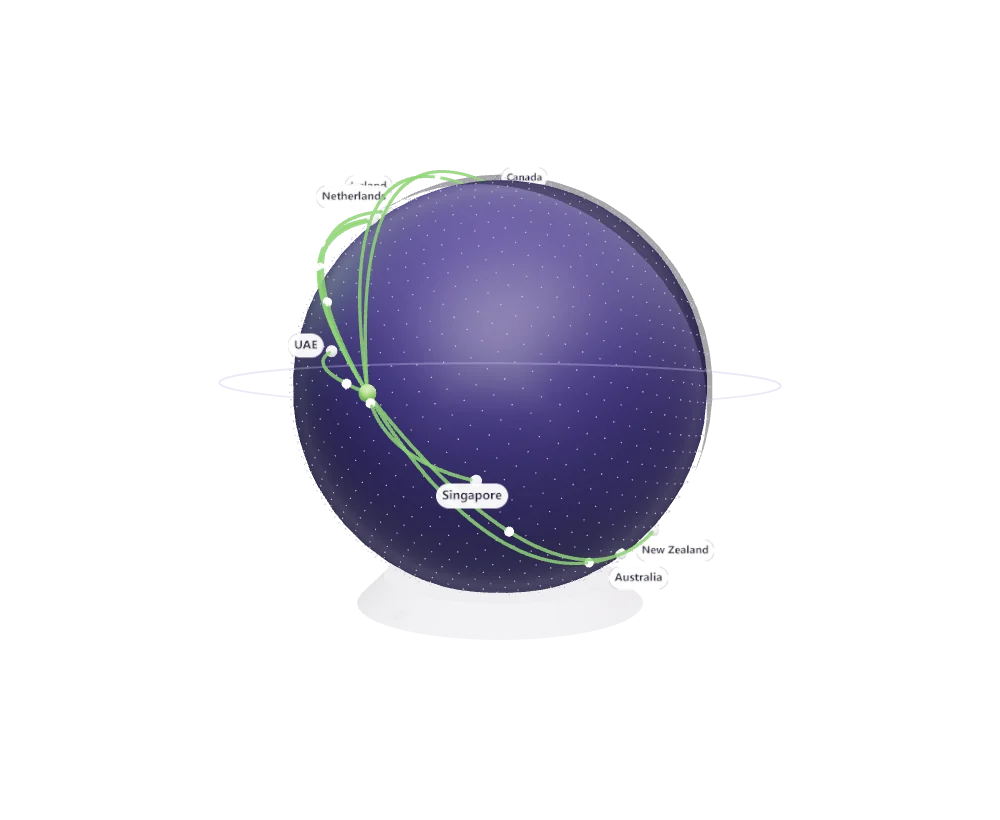
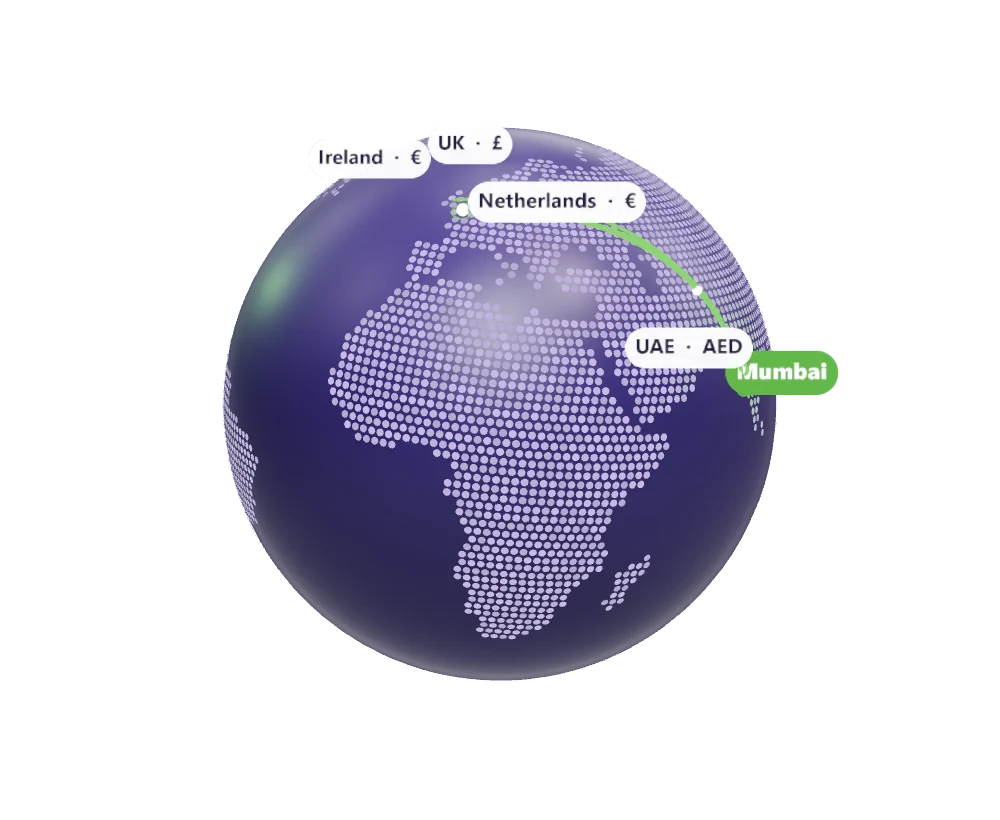
Clients-abroad globe redesigned: real continents in dots, rim of light, arcs that draw themselves
The old globe was a plain dotted ball on a stand with labels piling up. Now:
- Land drawn as an even dot grid from Natural Earth 1:110m (public domain), coastline only, no
  borders (build script in D:/U-Scale-SEO-Program/globe/land_dots.py, 3,826 dots, 20 KB).
- Glossy deep-violet sea, a camera-facing rim of light, Mumbai in green with a pulse and a soft green
  glow on the land around it.
- Arcs from Mumbai to the nine countries draw themselves one by one, with a light travelling each,
  and a pulse where they land. Labels carry the currency (UK · £, USA · $ ...) and show only while
  their side faces you; UK/Ireland/Netherlands and USA/Canada are nudged apart so they never overlap.
- No stand; the globe turns slowly (slower in calm mode). New poster and screen-reader text.

Changed region(s): [[0.217, 0.1524, 0.837, 0.8537]]

diff --git a/source/static/assets/3d/scenes/outsource-web-design-india.js b/source/static/assets/3d/scenes/outsource-web-design-india.js
@@ -1,39 +1,91 @@
-/* Clients abroad (hub): a dotted globe turning slowly, a night side, and glowing arcs from Mumbai to the nine countries,
-   with a packet of light travelling each arc. No country borders are drawn. */
+/* Clients abroad (hub): the world as dots of land (Natural Earth 1:110m coastline, public domain; no borders drawn),
+   a soft rim of light, and arcs drawing themselves from Mumbai to the nine countries, each with its currency.
+   The globe turns slowly; a country's label shows only while its side faces you, so labels never pile up. */
[1 lines of base64/hex data omitted]
 export default function (K, env) {
   const { T, C } = K;
   const root = K.group(); const intro = []; const faces = [];
-  const R = 2.3; const globe = K.group();
-  const N = 1800; const pts = new Float32Array(N * 3); const g = Math.PI * (3 - Math.sqrt(5));
-  for (let i = 0; i < N; i++) { const y = 1 - (i / (N - 1)) * 2; const r = Math.sqrt(1 - y * y); const a = g * i; pts.set([Math.cos(a) * r * R, y * R, Math.sin(a) * r * R], i * 3); }
-  const geo = new T.BufferGeometry(); geo.setAttribute('position', new T.BufferAttribute(pts, 3));
-  globe.add(new T.Points(geo, new T.PointsMaterial({ color: 0xc9bce8, size: 0.05, transparent: true, opacity: 0.9 })));
-  globe.add(new T.Mesh(new T.SphereGeometry(R * 0.985, 48, 32), K.clay(0x2e2558, { rough: 0.6 })));
-  const night = new T.Mesh(new T.SphereGeometry(R * 1.01, 48, 32, 0, Math.PI), new T.MeshBasicMaterial({ color: 0x0b0820, transparent: true, opacity: 0.35, depthWrite: false })); globe.add(night);
+  const R = 2.35; const Y = 2.45;
+  const tilt = K.group(); tilt.rotation.set(0.22, 0, -0.1); tilt.position.y = Y; root.add(tilt);
+  const globe = K.group(); tilt.add(globe);
   const ll = (lat, lon, r = R) => { const p = (90 - lat) * Math.PI / 180; const t = (lon + 180) * Math.PI / 180; return new T.Vector3(-r * Math.sin(p) * Math.cos(t), r * Math.cos(p), r * Math.sin(p) * Math.sin(t)); };
-  const home = ll(19.1, 72.9);
-  globe.add(K.place(K.ball(0.09, K.clay(C.green, { rough: 0.3 })), home.toArray()));
-  const places = [['UK', 51.5, -0.1], ['USA', 40.7, -74], ['Australia', -33.9, 151.2], ['Canada', 43.7, -79.4], ['Singapore', 1.35, 103.8], ['UAE', 25.2, 55.3], ['Ireland', 53.3, -6.3], ['New Zealand', -36.8, 174.8], ['Netherlands', 52.4, 4.9]];
-  const arcM = new T.MeshBasicMaterial({ color: C.lime, transparent: true, opacity: 0.85, toneMapped: false }); const packets = [];
-  places.forEach(([n, la, lo], i) => {
-    const b = ll(la, lo); const mid = home.clone().add(b).multiplyScalar(0.5); mid.setLength(R + 0.4 + home.distanceTo(b) * 0.28);
-    const curve = new T.QuadraticBezierCurve3(home, mid, b);
-    const arc = new T.Mesh(new T.TubeGeometry(curve, 48, 0.018, 6, false), arcM); globe.add(arc);
-    globe.add(K.place(K.ball(0.06, K.clay(C.white)), b.toArray()));
-    const lab = K.place(K.label(n, { px: 52, bg: 'rgba(255,255,255,0.95)', color: '#251E45', height: 0.24, weight: 700 }), b.clone().setLength(R + 0.32).toArray()); globe.add(lab); faces.push(lab);
-    const d = new T.Mesh(new T.SphereGeometry(0.05, 10, 8), new T.MeshBasicMaterial({ color: 0xffffff, toneMapped: false })); globe.add(d); packets.push({ d, curve, o: i * 0.11 });
+
+  /* the sea: a deep, slightly glossy ball */
+  globe.add(new T.Mesh(new T.SphereGeometry(R, 64, 48), K.clay(0x2b2255, { rough: 0.42, env: 0.55 })));
+
+  /* the land: one instanced dot per point, lying flat on the surface; a green glow around Mumbai */
+  const raw = Uint8Array.from(atob(LAND), (c) => c.charCodeAt(0)); const dv = new DataView(raw.buffer); const n = raw.length / 4;
+  const land = new T.InstancedMesh(new T.CircleGeometry(0.03, 10), new T.MeshBasicMaterial({ toneMapped: false }), n);
+  const home = ll(19.08, 72.88); const o = new T.Object3D(); const col = new T.Color(); const lav = new T.Color(0xc9bce8); const grn = new T.Color(0x8ed474);
+  let seed = 7; const rnd = () => { seed = (seed * 16807) % 2147483647; return seed / 2147483647; };
+  for (let i = 0; i < n; i++) {
+    const lat = dv.getInt16(i * 4, true) / 100; const lon = dv.getInt16(i * 4 + 2, true) / 100;
+    const p = ll(lat, lon, R * 1.003); o.position.copy(p); o.lookAt(p.clone().multiplyScalar(2)); o.updateMatrix(); land.setMatrixAt(i, o.matrix);
+    const near = Math.max(0, 1 - p.distanceTo(home) / 1.05);
+    col.copy(lav).lerp(grn, near * near).multiplyScalar(0.78 + 0.22 * rnd()); land.setColorAt(i, col);
+  }
+  globe.add(land);
+
+  /* Mumbai: green pin with a pulse */
+  const hn = home.clone().normalize();
+  const homeDot = K.ball(0.085, K.clay(C.green, { rough: 0.3 })); homeDot.position.copy(home.clone().multiplyScalar(1.01)); globe.add(homeDot);
+  const pulseM = new T.MeshBasicMaterial({ color: C.lime, transparent: true, opacity: 0.8, toneMapped: false, side: T.DoubleSide, depthWrite: false });
+  const pulse = new T.Mesh(new T.RingGeometry(0.1, 0.13, 40), pulseM); pulse.position.copy(home.clone().multiplyScalar(1.006)); pulse.lookAt(home.clone().multiplyScalar(2)); globe.add(pulse);
+  const homeLab = K.label('Mumbai', { px: 60, bg: '#63B849', color: '#ffffff', height: 0.34, weight: 800 }); homeLab.position.copy(hn.clone().multiplyScalar(R + 0.36)); homeLab.material.depthWrite = false; globe.add(homeLab); faces.push(homeLab);
+
+  /* nine countries: arc, end dot, label with currency; arcs draw themselves in turn */
+  const places = [['UK', 51.5, -0.13, '£', -0.05, 0.42], ['Ireland', 53.35, -6.26, '€', -0.62, 0.02], ['Netherlands', 52.37, 4.9, '€', 0.62, -0.08], ['UAE', 25.2, 55.27, 'AED', -0.2, 0],
+    ['Singapore', 1.35, 103.82, 'S$', 0.1, -0.12], ['Australia', -33.87, 151.21, 'A$', -0.25, -0.1], ['New Zealand', -36.85, 174.76, 'NZ$', 0.3, 0.1], ['USA', 40.71, -74.0, '$', 0.25, -0.28], ['Canada', 43.65, -79.38, 'C$', -0.2, 0.36]];
+  const arcM = new T.MeshBasicMaterial({ color: C.lime, toneMapped: false, transparent: true, opacity: 0.95 });
+  const packM = new T.MeshBasicMaterial({ color: 0xffffff, toneMapped: false });
+  const endM = new T.MeshBasicMaterial({ color: 0xffffff, toneMapped: false });
+  const arcs = []; const labels = [];
+  places.forEach(([name, la, lo, cur, ex, ny], i) => {
+    const b = ll(la, lo); const dist = home.distanceTo(b);
+    const mid = home.clone().add(b).multiplyScalar(0.5); mid.setLength(R + 0.25 + dist * 0.32);
+    const curve = new T.QuadraticBezierCurve3(home.clone().multiplyScalar(1.01), mid, b.clone().multiplyScalar(1.01));
+    const geo = new T.TubeGeometry(curve, 64, 0.014, 6, false); const total = geo.index.count; geo.setDrawRange(0, 0);
+    globe.add(new T.Mesh(geo, arcM));
+    const end = K.ball(0.05, endM, 12); end.position.copy(b.clone().multiplyScalar(1.012)); end.scale.setScalar(0.001); globe.add(end);
+    const ring = new T.Mesh(new T.RingGeometry(0.07, 0.09, 32), pulseM.clone()); ring.position.copy(b.clone().multiplyScalar(1.006)); ring.lookAt(b.clone().multiplyScalar(2)); globe.add(ring);
+    const pack = new T.Mesh(new T.SphereGeometry(0.038, 10, 8), packM); pack.visible = false; globe.add(pack);
+    const lab = K.label(`${name}  ·  ${cur}`, { px: 56, bg: 'rgba(255,255,255,0.96)', color: '#251E45', height: 0.3, weight: 700 });
+    const bn = b.clone().normalize(); const east = new T.Vector3(0, 1, 0).cross(bn).normalize(); const north = bn.clone().cross(east);
+    lab.position.copy(bn.clone().multiplyScalar(R + 0.3).addScaledVector(east, ex).addScaledVector(north, ny)); lab.material.depthWrite = false; globe.add(lab); faces.push(lab);
+    arcs.push({ geo, total, curve, end, ring, pack, start: 0.9 + i * 0.28, o: i * 0.13 });
+    labels.push({ lab, n: b.clone().normalize() });
   });
-  globe.rotation.set(0.3, 2.75, 0); globe.position.y = 2.4; root.add(globe); intro.push({ obj: globe, delay: 0.1, dur: 1.2 });
-  const ringM = new T.MeshBasicMaterial({ color: C.lav, transparent: true, opacity: 0.35, toneMapped: false, depthWrite: false });
-  const orbit = new T.Mesh(new T.TorusGeometry(R + 0.75, 0.01, 6, 120), ringM); orbit.rotation.x = Math.PI / 2.3; orbit.position.y = 2.4; root.add(orbit);
-  const pod = K.place(K.cyl(1.3, 1.6, 0.3, K.clay(0xe7e0f7), 48), [0, 0.15, 0]); root.add(pod); intro.push({ obj: pod, from: 'rise' });
+
+  /* rim of light: a camera-facing disc with a ring-shaped glow, behind the globe */
+  const cv = document.createElement('canvas'); cv.width = cv.height = 512; const g2 = cv.getContext('2d');
+  const gr = g2.createRadialGradient(256, 256, 178, 256, 256, 256);
+  gr.addColorStop(0, 'rgba(201,188,232,0)'); gr.addColorStop(0.24, 'rgba(201,188,232,0.6)'); gr.addColorStop(0.5, 'rgba(160,140,230,0.22)'); gr.addColorStop(1, 'rgba(160,140,230,0)');
+  g2.fillStyle = gr; g2.fillRect(0, 0, 512, 512);
+  const haloTex = new T.CanvasTexture(cv); haloTex.colorSpace = T.SRGBColorSpace;
+  const halo = new T.Mesh(new T.PlaneGeometry(R * 2.6, R * 2.6), new T.MeshBasicMaterial({ map: haloTex, transparent: true, depthWrite: false, toneMapped: false, blending: T.AdditiveBlending }));
+  halo.position.y = Y; halo.renderOrder = -1; root.add(halo); faces.push(halo);
+
+  intro.push({ obj: tilt, delay: 0.05, dur: 1.1 });
+  /* start with Mumbai right of centre, so Europe and the Gulf face you; then turn */
+  const base = -Math.atan2(home.x, home.z) + 0.75;
+  const wp = new T.Vector3(); const camDir = new T.Vector3(); const centre = new T.Vector3(0, Y, 0); const gq = new T.Quaternion();
+  const smooth = (a, b, x) => { const k = Math.min(1, Math.max(0, (x - a) / (b - a))); return k * k * (3 - 2 * k); };
 
   return {
-    root, intro, faces, cam: [0.6, 3.6, 9.6], target: [0, 2.2, 0], fov: 28, sway: 0.05, fit: 0.78,
+    root, intro, faces, cam: [0, 3.0, 10.2], target: [0, Y, 0], fov: 27, sway: 0.04, fit: 0.66,
     update(t, dt, s) {
-      globe.rotation.y = 2.75 + Math.sin(t * 0.12) * 0.3;
-      for (const p of packets) { const k = (t * 0.3 + p.o) % 1; p.d.position.copy(p.curve.getPoint(k)); }
-      orbit.rotation.z = t * 0.1;
+      globe.rotation.y = base + t * (s.calm ? 0.03 : 0.085);
+      const k = (t * 0.55) % 1; pulse.scale.setScalar(1 + k * 1.8); pulseM.opacity = 0.85 * (1 - k);
+      camDir.copy(s.cam.position).sub(centre).normalize(); globe.getWorldQuaternion(gq);
+      for (const a of arcs) {
+        const d = Math.min(1, Math.max(0, (t - a.start) / 1.1)); a.geo.setDrawRange(0, Math.floor((a.total * K.ease.out(d)) / 3) * 3);
+        a.end.scale.setScalar(d >= 1 ? 1 : 0.001);
+        a.pack.visible = d >= 1; if (d >= 1) a.pack.position.copy(a.curve.getPoint(((t - a.start) * 0.28 + a.o) % 1));
+        const rk = (t * 0.5 + a.o) % 1; a.ring.scale.setScalar(d >= 1 ? 1 + rk * 1.6 : 0.001); a.ring.material.opacity = 0.7 * (1 - rk);
+      }
+      /* labels: shown on the side facing you, faded towards the edge, hidden behind */
+      for (const l of labels) { const f = smooth(0.32, 0.6, wp.copy(l.n).applyQuaternion(gq).dot(camDir)); l.lab.material.opacity = f; l.lab.visible = f > 0.01; }
+      const fh = smooth(0.2, 0.5, wp.copy(hn).applyQuaternion(gq).dot(camDir)); homeLab.material.opacity = fh; homeLab.visible = fh > 0.01;
     },
   };
 }

diff --git a/source/build/hero3d.py b/source/build/hero3d.py
@@ -25,7 +25,7 @@ ALT = {
     'website-design-jaipur': 'A 3D pink palace facade in Jaipur: rows of small bay windows lighting one by one, shops with awnings in front and a camel cart passing',
     'andheri-east': 'A 3D model of Andheri East: the metro on its viaduct over the highway, traffic below, offices along the road and a plane climbing from the runway',
     'website-design-india': 'A 3D network of Indian cities: pins for Delhi NCR, Jaipur, Ahmedabad, Surat, Pune, Hyderabad, Bengaluru, Chennai and Kolkata, with glowing arcs from Mumbai to each',
-    'outsource-web-design-india': 'A 3D dotted globe turning, with glowing arcs from Mumbai to the UK, USA, Australia, Canada, Singapore, UAE, Ireland, New Zealand and the Netherlands',
+    'outsource-web-design-india': 'A 3D globe of the world drawn in dots of land, turning slowly, with green arcs from Mumbai to the UK, Ireland, the Netherlands, the UAE, Singapore, Australia, New Zealand, the USA and Canada, each labelled with its currency',
     'website-design-usa': 'Two 3D city blocks: New York at night under the moon and Mumbai by day under the sun, joined by an arc carrying a card that says Preview updated',
     'website-design-australia': 'A 3D scene on red earth: a tradie ute with a toolbox and a hard hat, gum trees, and a job card ticking itself: quote A$850 fixed, design approved, site live',
     'website-design-canada': 'A 3D card turning between English and French, Fresh bread and Du pain frais, above a snowy scene with pines and a cabin as snow falls',
